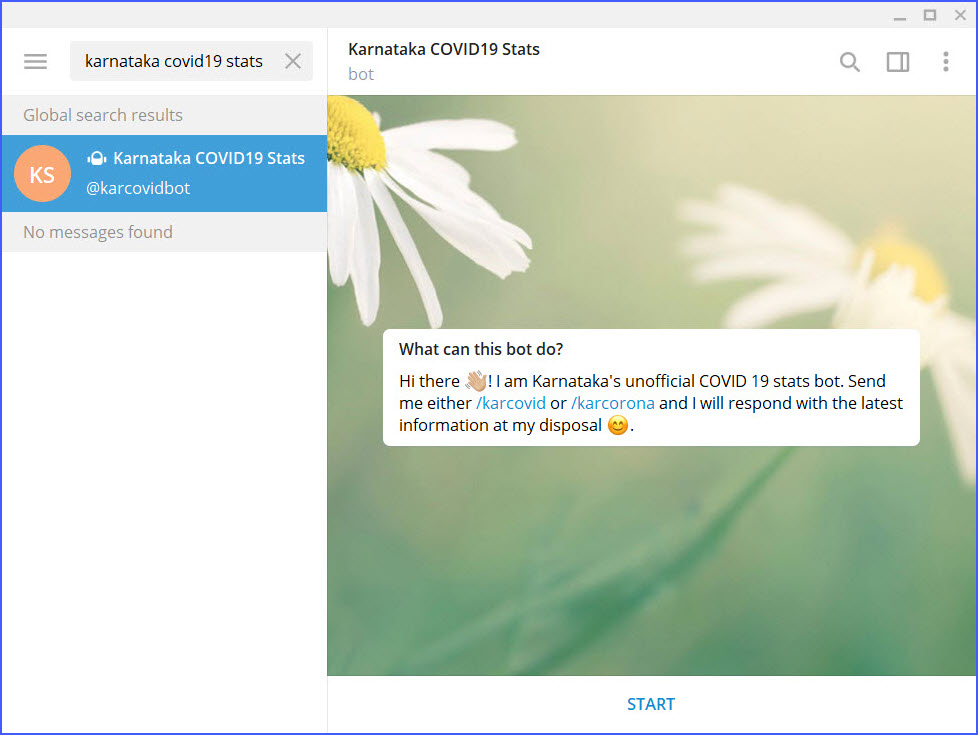
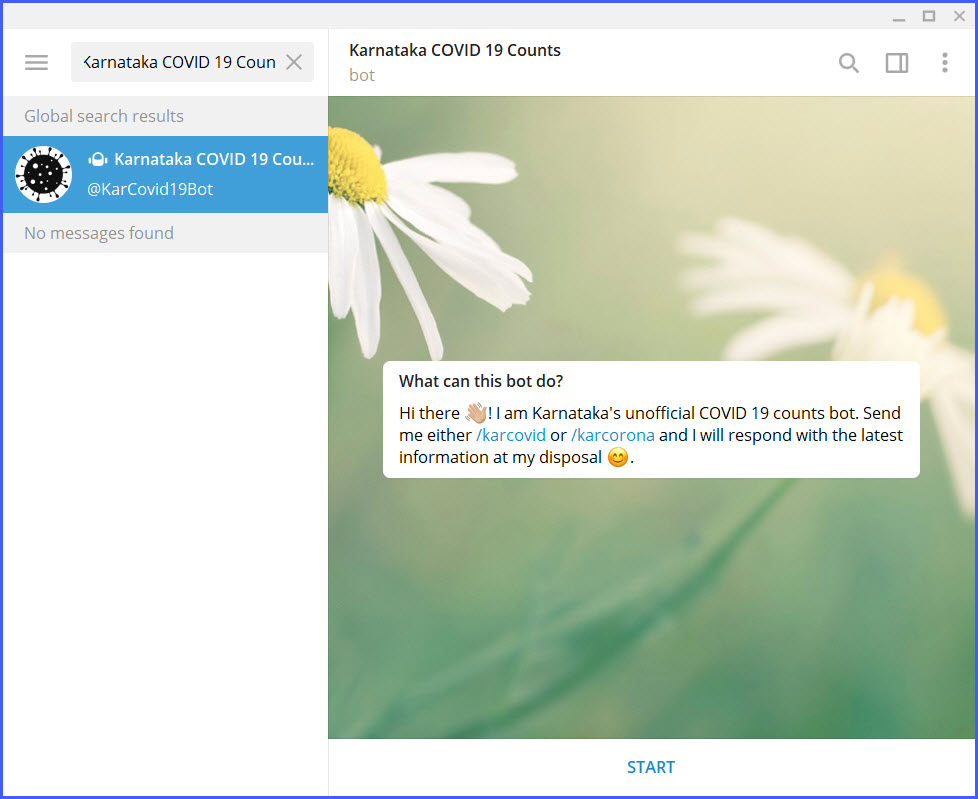
Added the district counts

diff --git a/bot/server.py b/bot/server.py
@@ -1,5 +1,6 @@
 import requests
 from kar_covid_bot import TelegramBot
+from functools import reduce
 
 # Create the bot
 bot = TelegramBot()
@@ -16,15 +17,56 @@ def make_reply(msg):
     return reply
 
 
+def get_dist_data():
+    r = requests.get("https://api.covid19india.org/v2/state_district_wise.json")
+
+    for item in r.json():
+        if item["state"] == "Karnataka":
+            dist_data = item["districtData"]
+
+    return dist_data
+
+
+def get_deltas():
+    dist_data = get_dist_data()
+
+    deltas = [dist_data[j]["delta"] for j in range(len(dist_data))]
+
+    confirmed_delta = reduce(lambda x, y: x + y["confirmed"], deltas, 0)
+    recovered_delta = reduce(lambda x, y: x + y["recovered"], deltas, 0)
+    deceased_delta = reduce(lambda x, y: x + y["deceased"], deltas, 0)
+
+    return {"confirmed": confirmed_delta,
+            "recovered": recovered_delta,
+            "deceased": deceased_delta}
+
+
 def get_kar_stats():
+    dist_cases = []
+    dist_item = ""
+
     r = requests.get("https://api.covid19india.org/v3/data.json")
     kar_total = r.json()["KA"]["total"]
 
-    return f"📊 <strong>Current COVID 19 stats for Karnataka</strong>: \
-                \n\nConfirmed:  <b>{kar_total['confirmed']}</b> \
-                \nRecovered:  <b>{kar_total['recovered']}</b> \
-                \nDeceased:  <b>{kar_total['deceased']}</b> \
-                \nTested:  <b>{kar_total['tested']}</b> \
+    delta_info = get_deltas()
+
+    dist_counts = get_dist_data()
+    
+
+    for count in range(len(dist_counts)):
+        if dist_counts[count]['district'] != "Unknown" and dist_counts[count]['district'] != "Other State":
+            dist_cases.append(f"\n👉  <strong>{dist_counts[count]['district']}</strong> ❗ C: {dist_counts[count]['confirmed']} ❗ R: {dist_counts[count]['recovered']} ❗ D: {dist_counts[count]['deceased']}")
+
+    for item in dist_cases:
+        dist_item += item    
+
+    return f"📊 <strong><u>Current COVID 19 Counts for Karnataka</u></strong>: \
+                \n\n⭕ Confirmed:  <strong>{kar_total['confirmed']}</strong>  [↑ {delta_info['confirmed']}] \
+                \n\n✅ Recovered:  <strong>{kar_total['recovered']}</strong>  [↑ {delta_info['recovered']}] \
+                \n\n❌ Deceased:  <strong>{kar_total['deceased']}</strong>  [↑ {delta_info['deceased']}] \
+                \n\n💉 Tested:  <strong>{kar_total['tested']}</strong> \
+                \n\n\n🔢 <strong><u>District-wise Counts</u></strong> (<strong>C</strong>onfirmed - <strong>R</strong>ecovered - <strong>D</strong>eceased): \
+                \n{dist_item} \
                 \n\nFor more details, check out the <a href='https://kar.covid19-info.website'>Karnataka COVID 19 Tracker</a>."
 
 

diff --git a/README.md b/README.md
@@ -1,13 +1,15 @@
-# Karnataka COVID19 Stats - Telegram Bot
+# Karnataka COVID19 Counts - Telegram Bot
 
-This repository contains the Python (v3.7) code for the 
+This repository contains the Python (v3.7) code for the
 
 ## Using the bot
-1. Search for the bot in Telegram using either **Karnataka COVID19 Stats** or **@karcovidbot**
+
+1. Search for the bot in Telegram using either **Karnataka COVID 19 Counts** or **@KarCovid19Bot**
 2. Click **START** to begin conversing with the bot
 3. To retrieve the latest COVID 19 stats for Karnataka, send either **/karcovid** or **/karcorona**
 
 ## Creating a local setup
+
 1. Clone the current repository - `git clone https://github.com/AbhishekPednekar84/covid19-kar-bot`
 2. Create a virtual environment - `python -m venv venv`
 3. Activate the virtual environment - `venv\Sctipts\activate.bar` (Windows), `source venv/bin/activate` (OSx / Linux)
@@ -16,7 +18,9 @@ This repository contains the Python (v3.7) code for the
 6. Run the code - `python bot/server.py` or `python3 bot/server.py`
 
 ---
+
 <p align="center"><img src="https://github.com/AbhishekPednekar84/covid19-kar-bot/blob/master/images/bot1.jpg" alt="Bot1"></p>
 
 ---
+
 <p align="center"><img src="https://github.com/AbhishekPednekar84/covid19-kar-bot/blob/master/images/bot2.jpg" alt="Bot2"></p>
